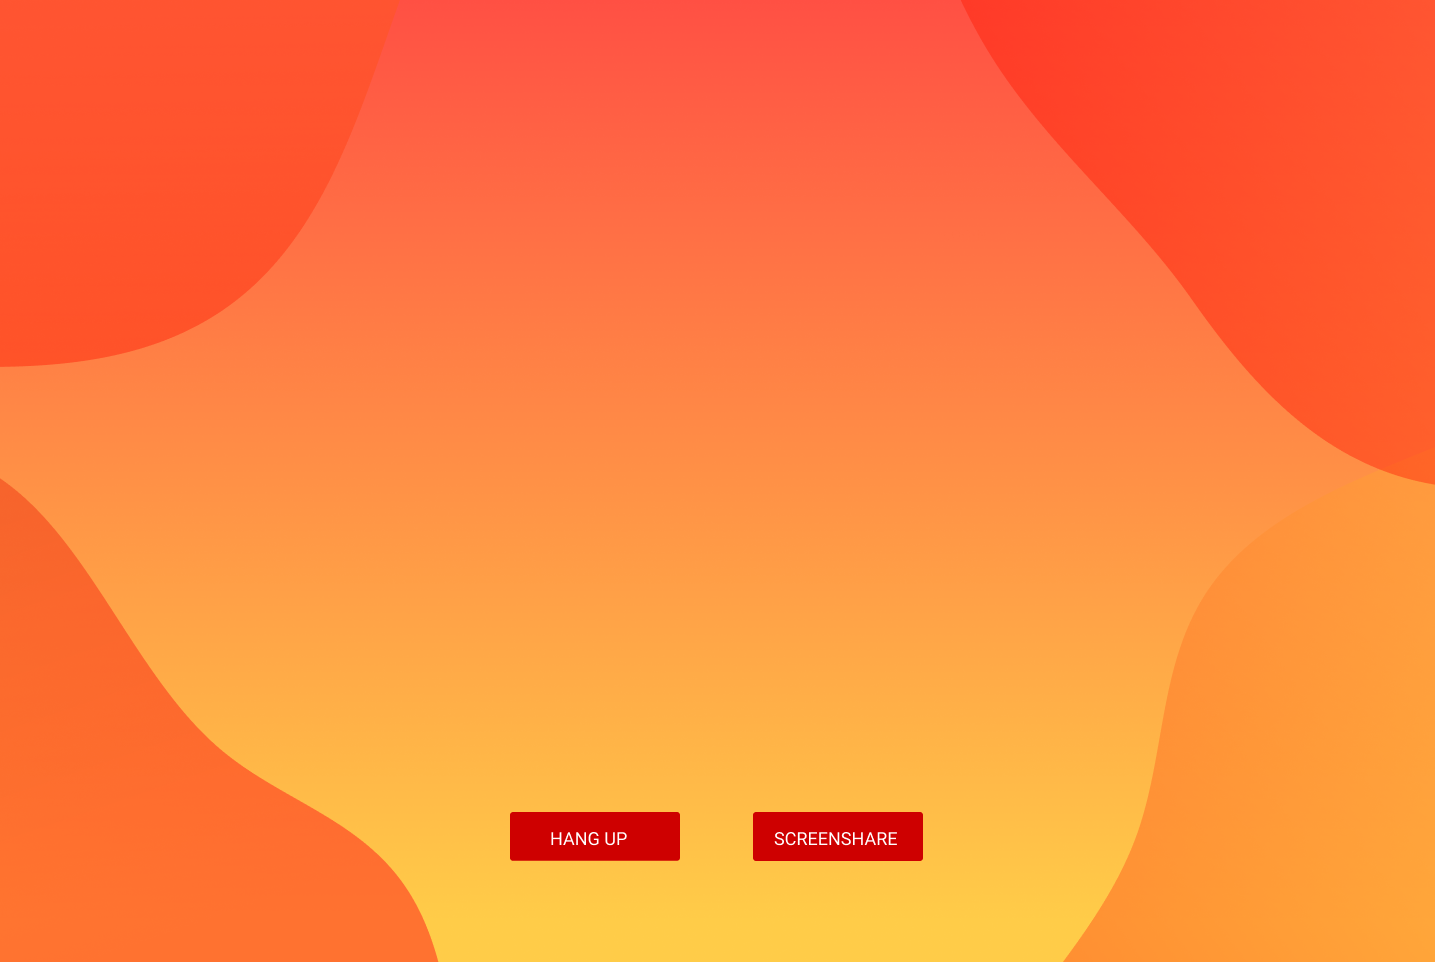
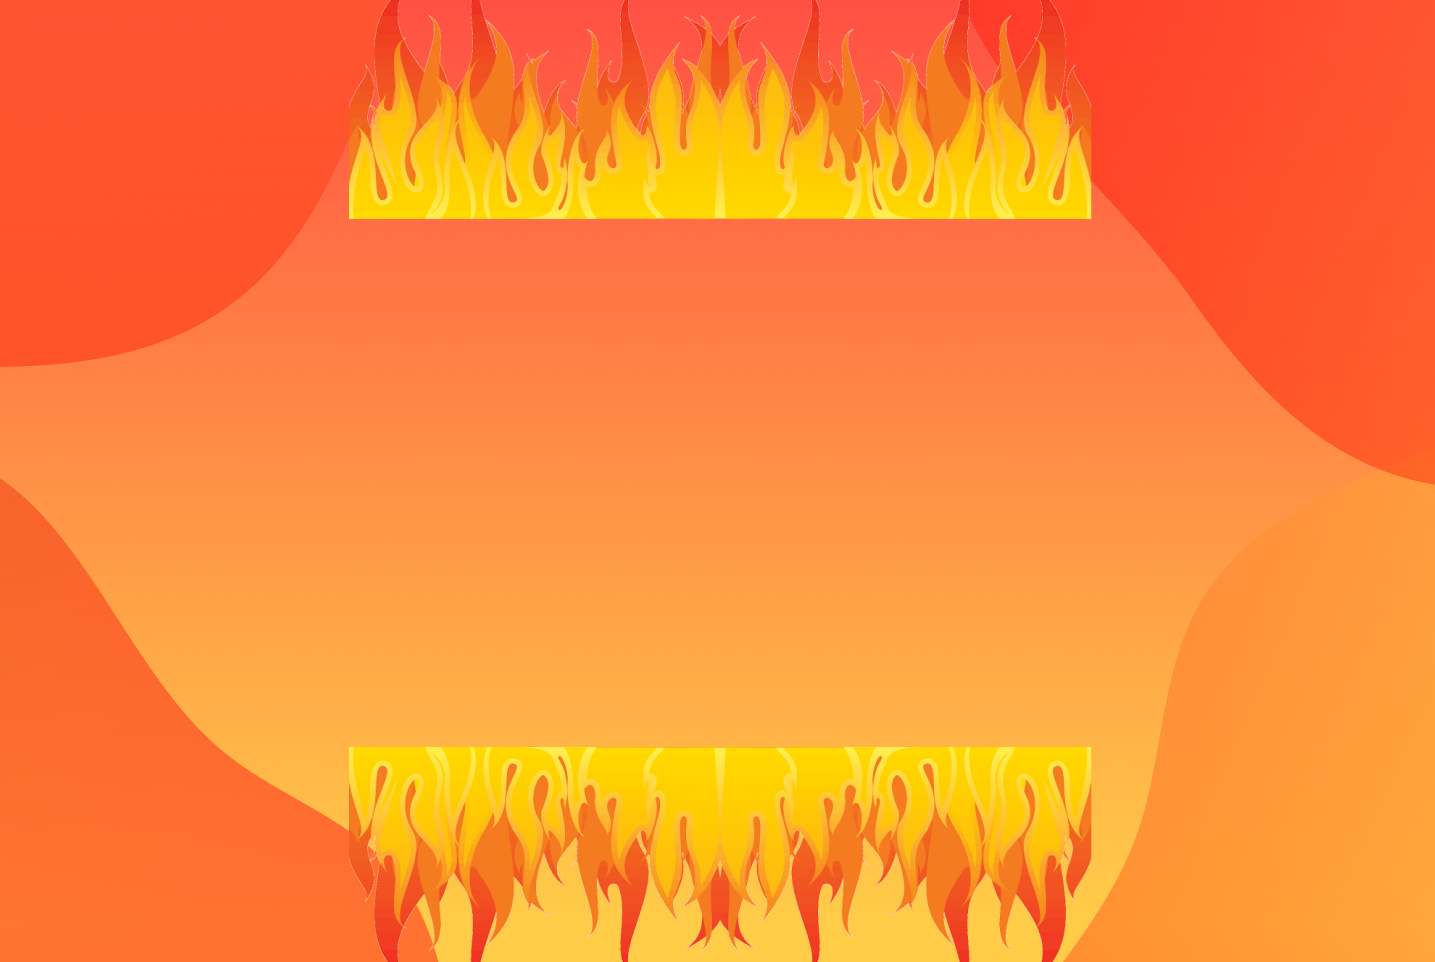
Still not broken (hopefully)

Changed region(s): [[0.2453, 0.0, 0.7666, 0.2495], [0.2453, 0.7796, 0.7666, 1.0]]

diff --git a/src/components/Call.js b/src/components/Call.js
@@ -1,9 +1,21 @@
 import React, { useState } from "react";
 import { Link, Redirect, Route, Switch } from "react-router-dom";
+import { makeStyles } from '@material-ui/core/styles';
 import jwt_decode from "jwt-decode";
 import Jitsi from "react-jitsi";
+import callBackground from "../assets/img/Call.png"
+
+const useStyles = makeStyles((theme) => ({
+    video: {
+    marginLeft: '360px',
+    marginTop: '220px',
+    }
+
+  }));
+  
 
 const Call = () => {
+  const classes = useStyles();
   const token = localStorage.token;
   const decoded = jwt_decode(token);
   const email = decoded.identity.email;
@@ -15,12 +27,23 @@ const Call = () => {
   };
 
   return (
+    <div style={{
+        backgroundImage: `url(${callBackground})`,
+        backgroundSize: 'cover',
+        backgroundPosition: 'center',
+        backgroundRepeat: 'no-repeat'
+        //height: '100vh',
+        
+        }}>
+    <div className={classes.video}>
     <Jitsi
       onAPILoad={handleAPI}
       roomName={roomName}
       displayName={name}
       config={{ prejoinPageEnabled: false }}
     />
+    </div>
+    </div>
   );
 };
 

diff --git a/src/components/Match.js b/src/components/Match.js
@@ -109,10 +109,10 @@ export default function Match(props) {
   return (
     <div style={{
       backgroundImage: `url(${ProfileImage})`,
-      width: '100vw',
-      height: '100vh',
       backgroundSize: 'cover',
       backgroundPosition: 'center',
+      height: '100vh',
+      height: '100vw',
       }}>
     <div>
     <div className={classes.name}>

diff --git a/src/components/Profile.js b/src/components/Profile.js
@@ -1,5 +1,5 @@
 import React from 'react';
-import { makeStyles, jssPreset, } from '@material-ui/core/styles';
+import { makeStyles } from '@material-ui/core/styles';
 import TextField from '@material-ui/core/TextField';
 import Input from '@material-ui/core/Input';
 import InputLabel from '@material-ui/core/InputLabel';
